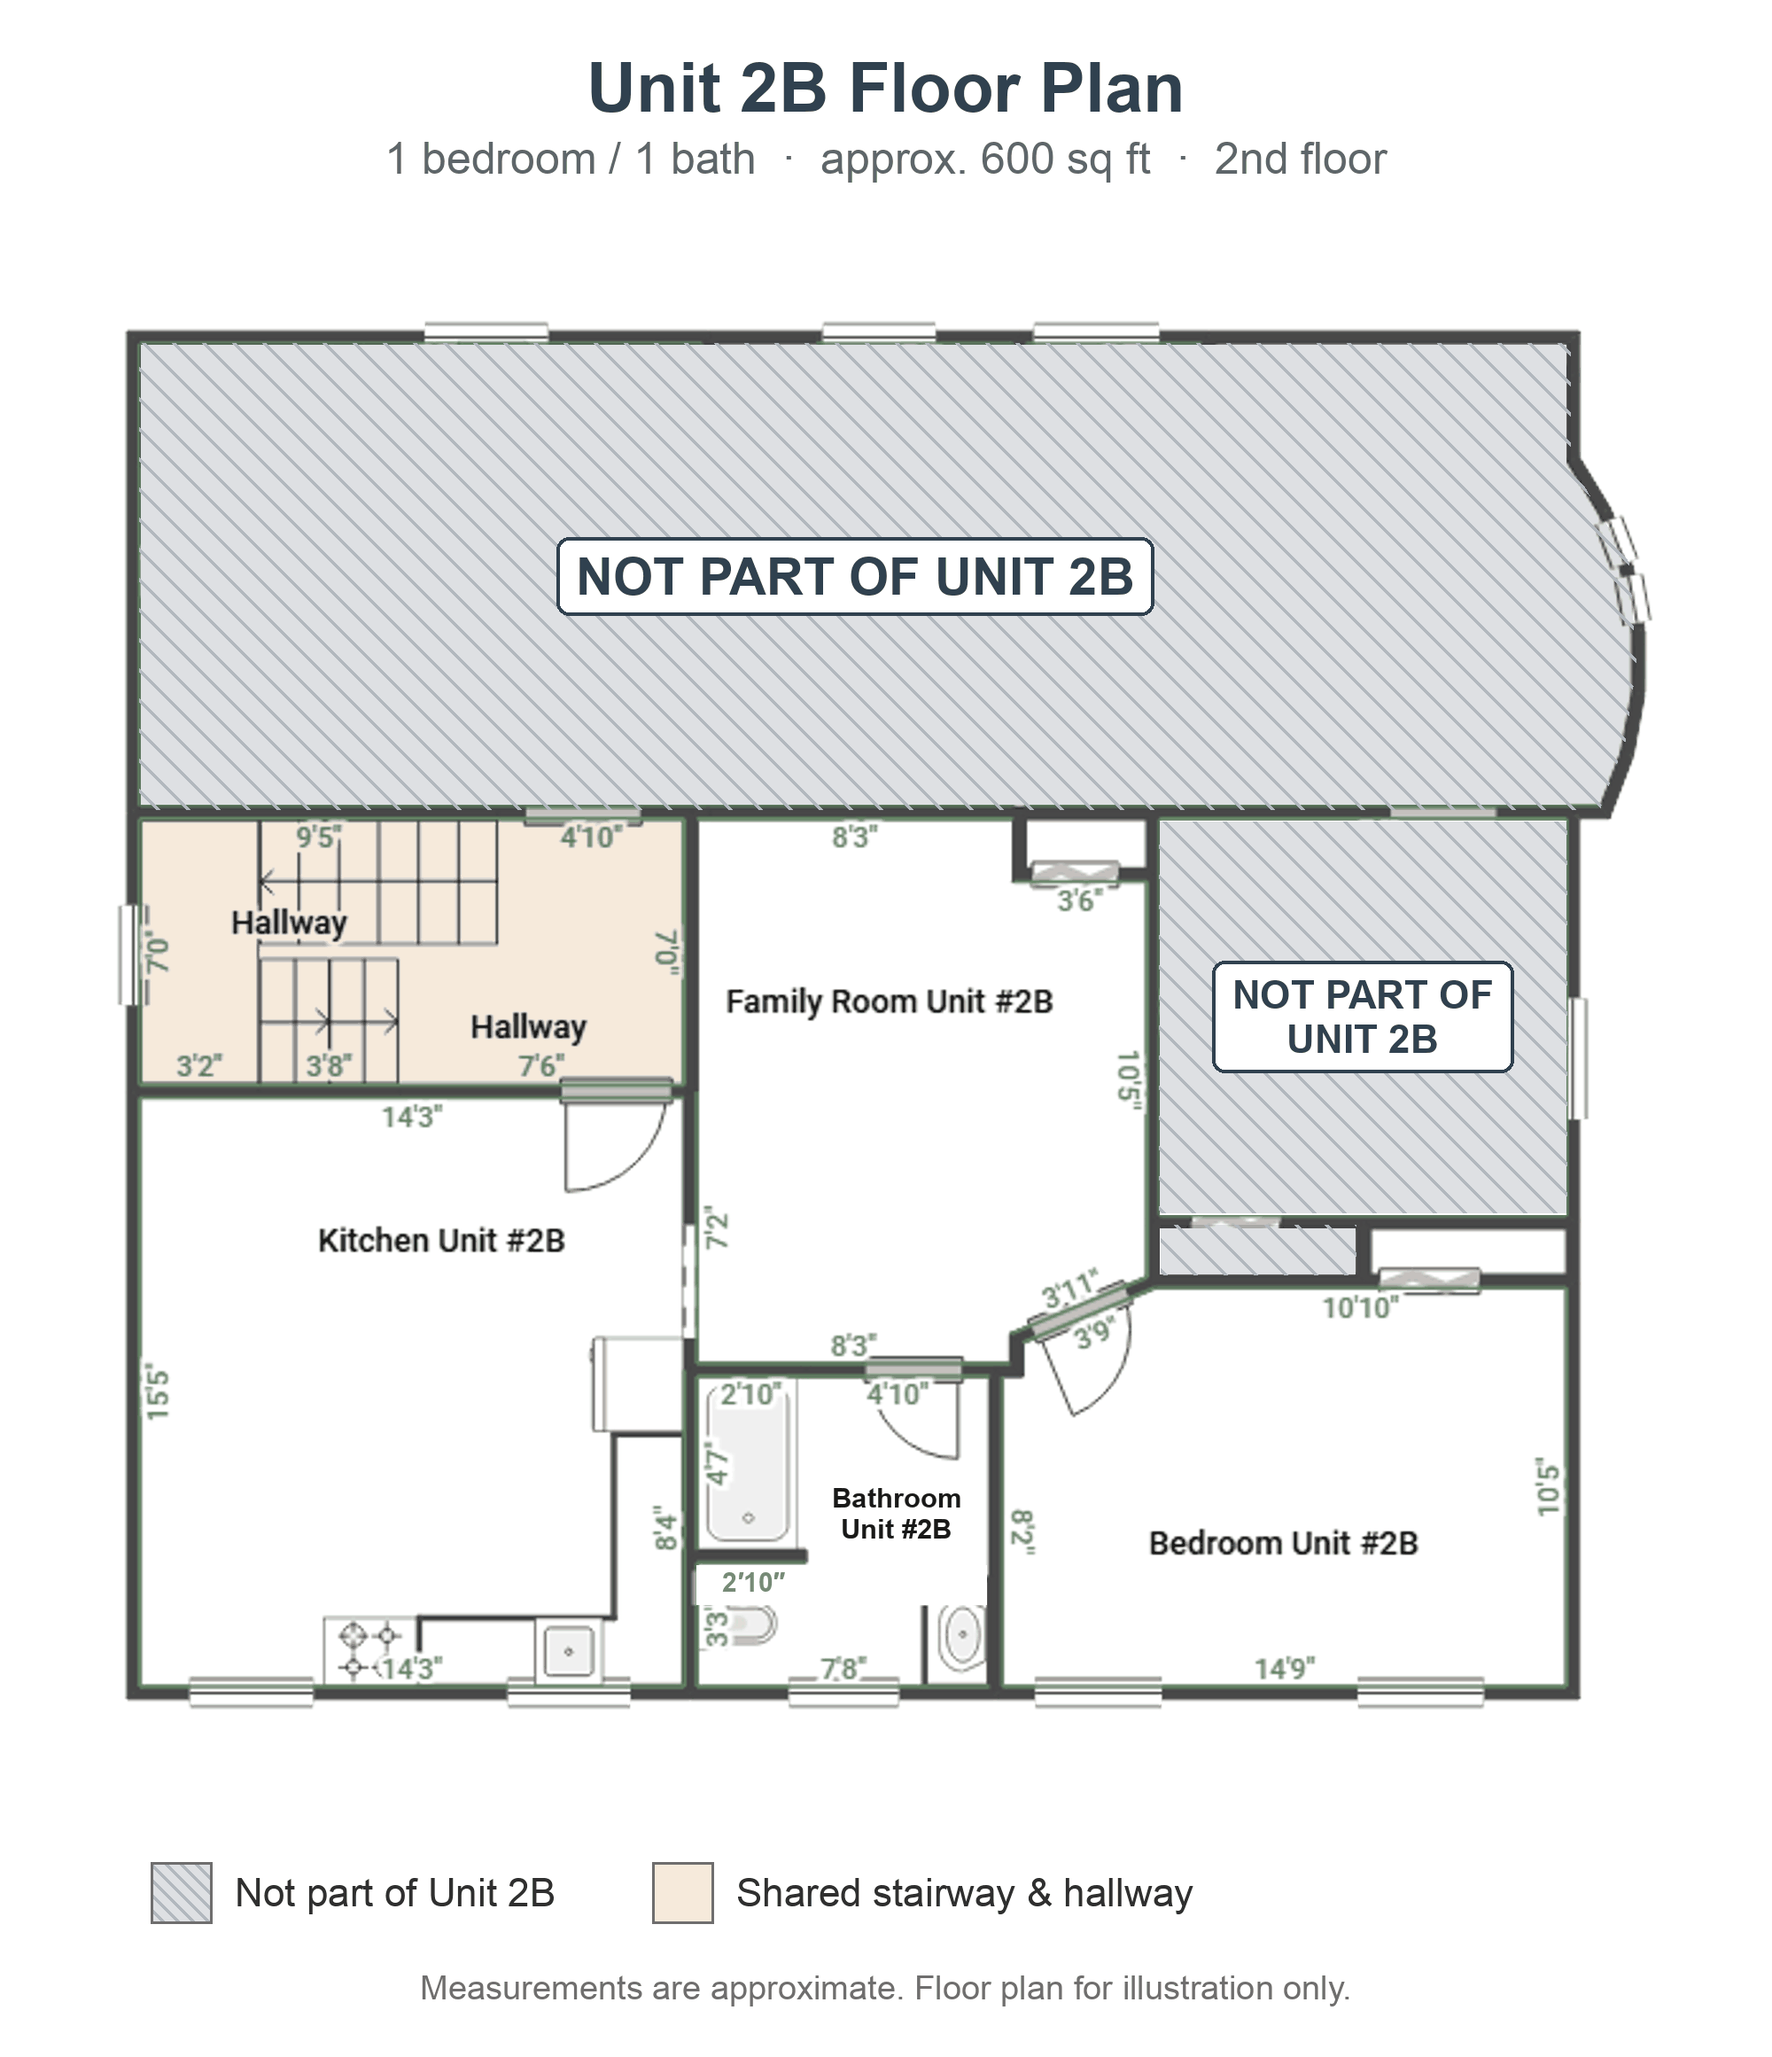
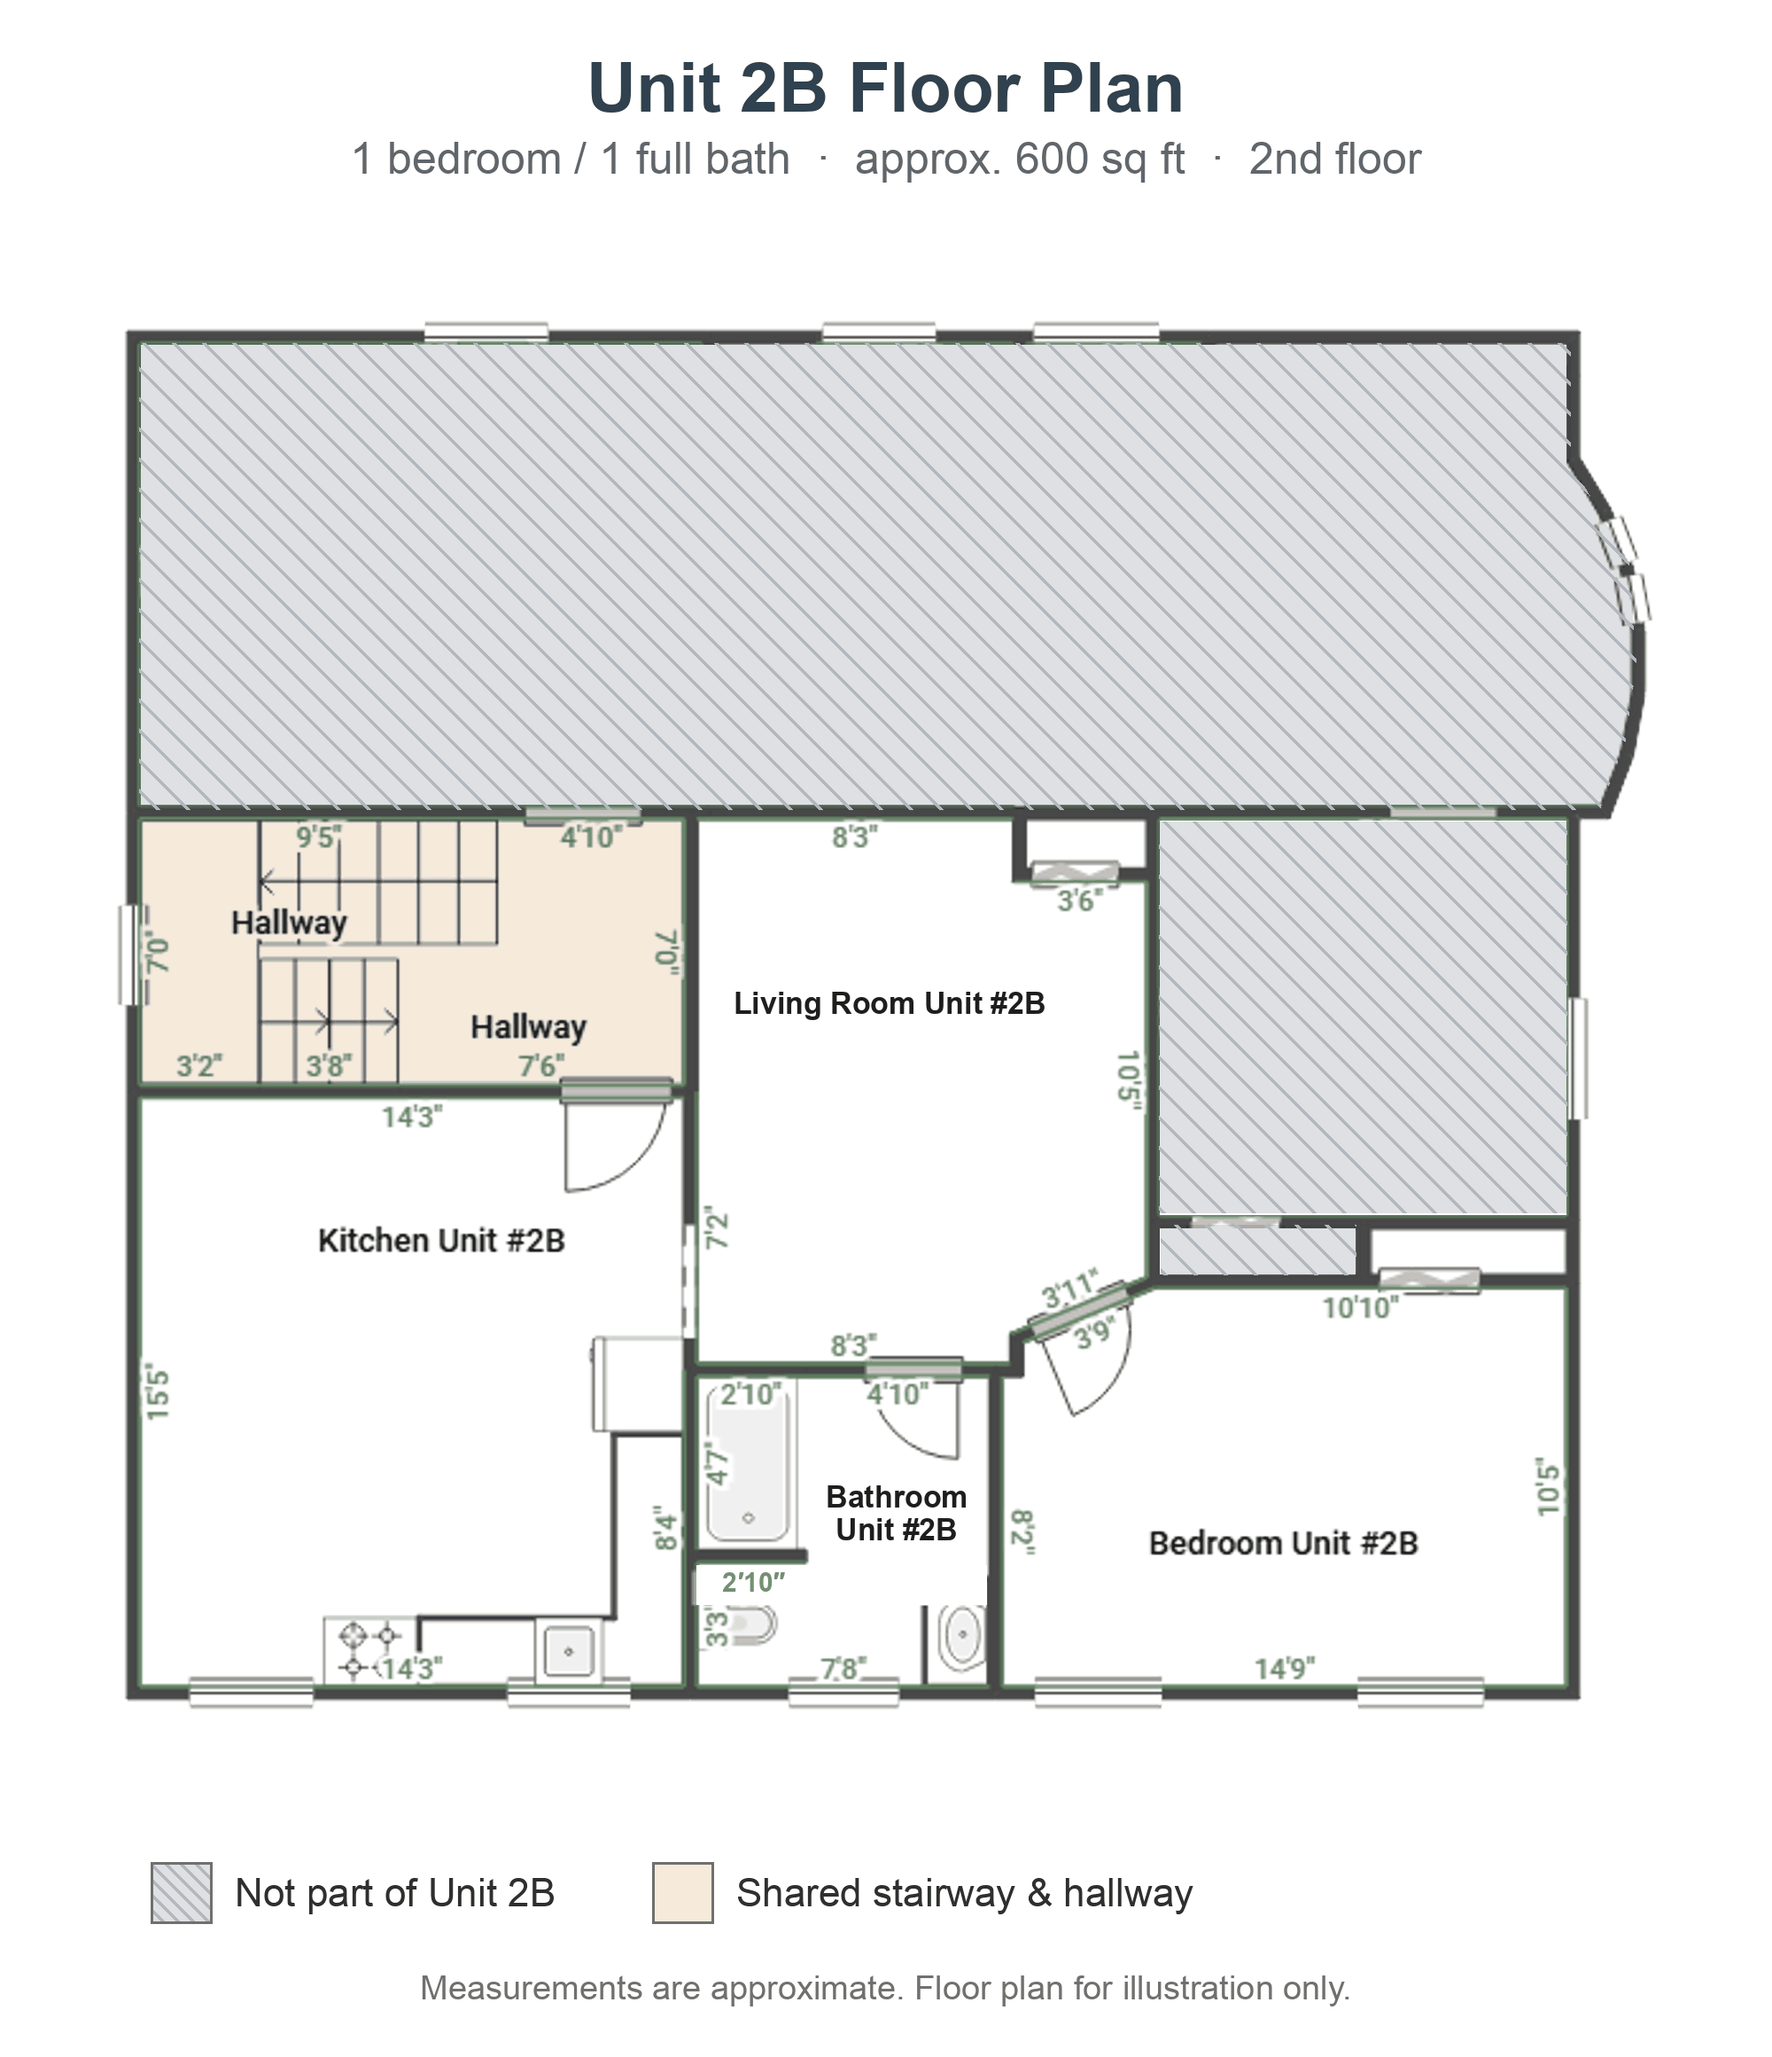
Unit 2B: living room, full bath with shower; simplify floor plan labels
Drop the large "NOT PART OF UNIT 2B" labels from the floor plan (the
hatching and legend carry the meaning) and relabel Family Room as
Living Room.

Claude-Session: https://claude.ai/code/session_01AzBiAPeqHAWLghxkCbou5b

diff --git a/desc_u2b.html b/desc_u2b.html
@@ -2,7 +2,7 @@
 
 <div class="rh-banner">Coming soon &ndash; Unit 2B is not yet available to rent. Details, pricing, and showing times will be posted here when it is ready to list.</div>
 
-<p>Unit 2B: 1 bedroom, 1 bath, approximately 600 sq ft on the second floor.</p>
+<p>Unit 2B: 1 bedroom, 1 full bath, approximately 600 sq ft on the second floor.</p>
 
 <p>Rent includes heat, gas, and water.<br>
 Tenant covers electricity only.</p>
@@ -10,9 +10,9 @@ Tenant covers electricity only.</p>
 <h1 class="rh-heading">UNIT 2B FEATURES</h1>
 <ul class="rh">
   <li>Spacious eat-in kitchen, approx. 14&prime; &times; 15&prime;, with refrigerator and range</li>
-  <li>Separate family room</li>
+  <li>Separate living room</li>
   <li>Bedroom, approx. 15&prime; &times; 10&prime;, with closet</li>
-  <li>Full bathroom with tub</li>
+  <li>Full bathroom with tub and shower</li>
   <li>Radiator heat, included in the rent</li>
   <li>Wall-mounted air conditioning</li>
   <li>Floor plan included in the photos above. Areas shaded gray belong to other parts of the building and are not part of Unit 2B.</li>
